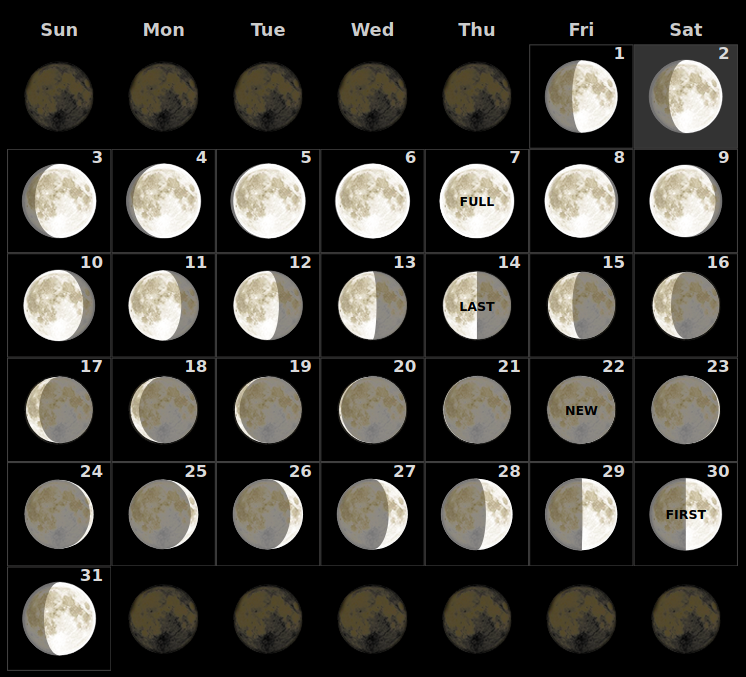
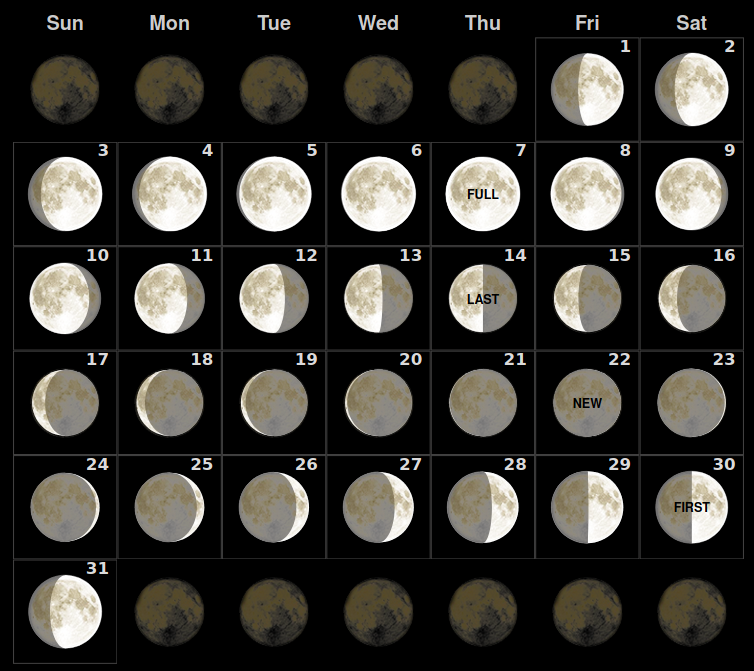
add moon data from e.g.- https://www.moongiant.com/calendar/June/2020/

diff --git a/www/index.html b/www/index.html
@@ -203,7 +203,7 @@
         <tr><td>Sunset</td><td><span id="sunset"></span></td></tr>
         <tr><td>Last Light</td><td><span id="lastLight"></span></td></tr>
         <!--<tr><td>Moon</td><td><span id="moonStatus"></span><br><a href="/moon.png" target="_blank"><img id="moonImg" src="/moon.png"></a></td></tr>-->
-        <tr><td>Moon</td><td><span>April 2020</span><br><a href="/static/moon_april_2020.png" target="_blank"><img id="moonImg" src="/static/moon_april_2020.png"></a></td></tr>
+        <tr><td>Moon</td><td><span>May 2020</span><br><a href="/static/moon_may_2020.png" target="_blank"><img id="moonImg" src="/static/moon_may_2020.png"></a></td></tr>
         <tr><td>Weather Station GPS Location</td><td>29&deg; 50.811&apos; N; 81&deg; 15.968&apos; W - 40 FT<br><a href="/static/wx-5fcf8aa1cef8dbf0d85a6ef3b30783f7.jpg" target="_blank"><img id="wxImg" src="/static/wx-5fcf8aa1cef8dbf0d85a6ef3b30783f7.jpg"></a></td></tr>
       </table>
     </section>
